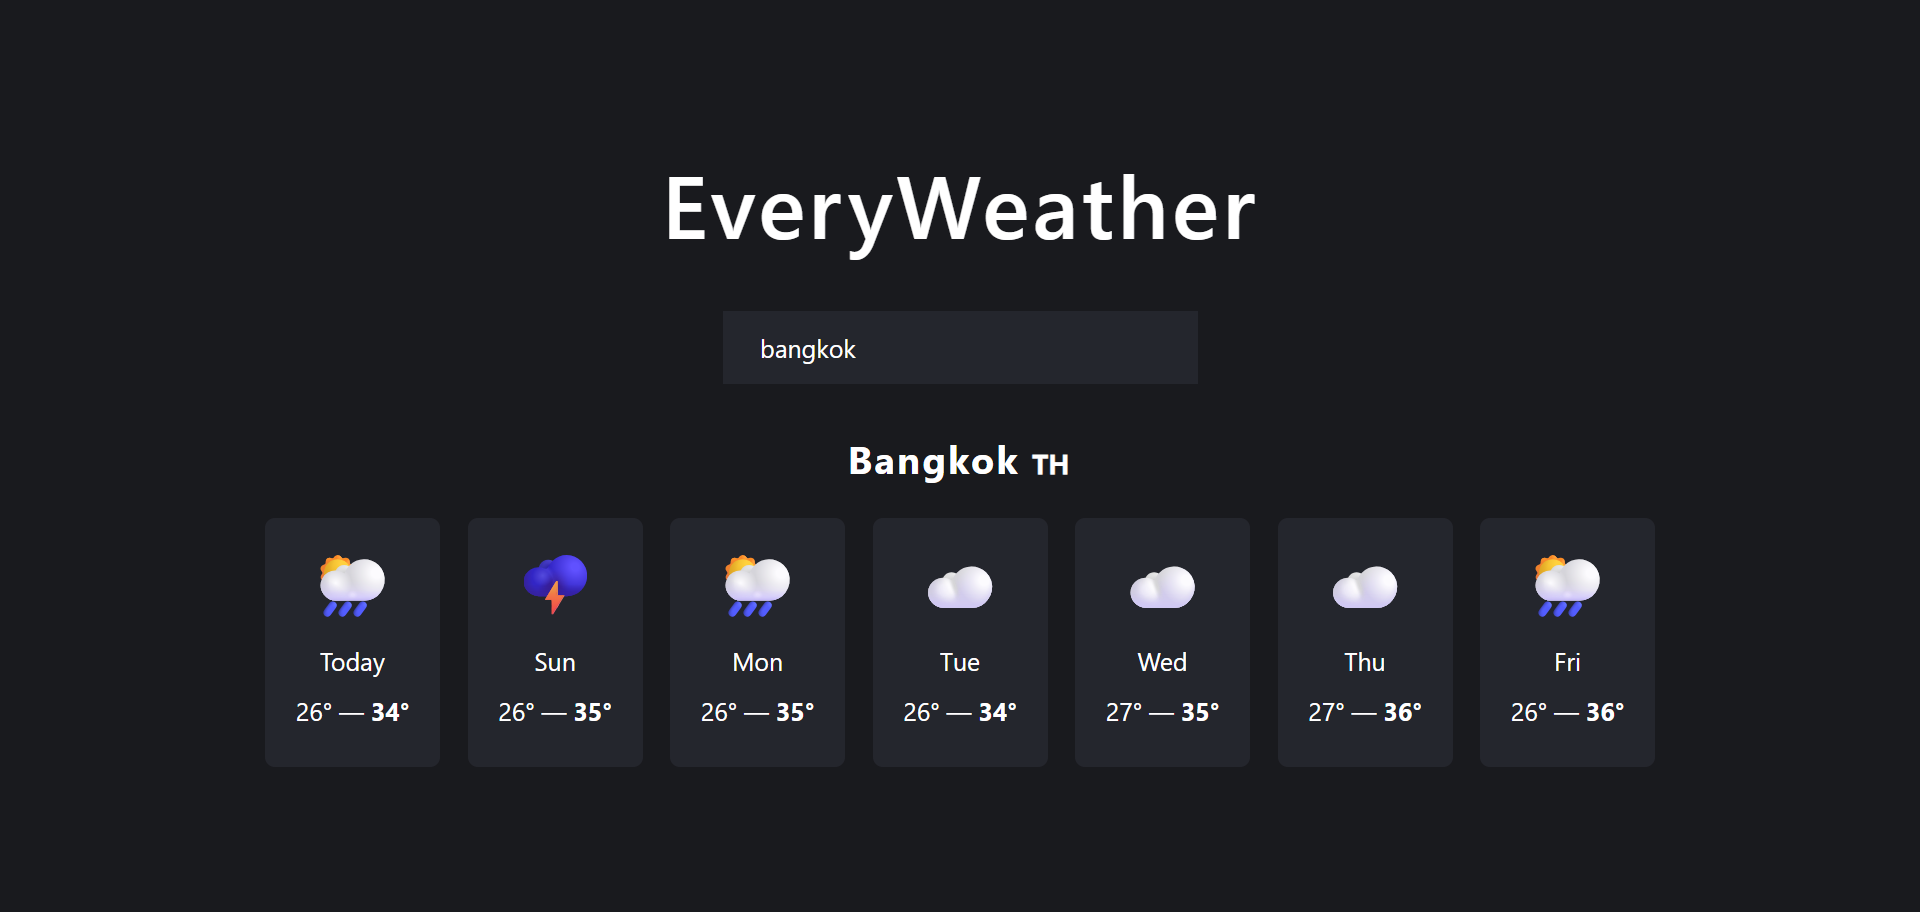
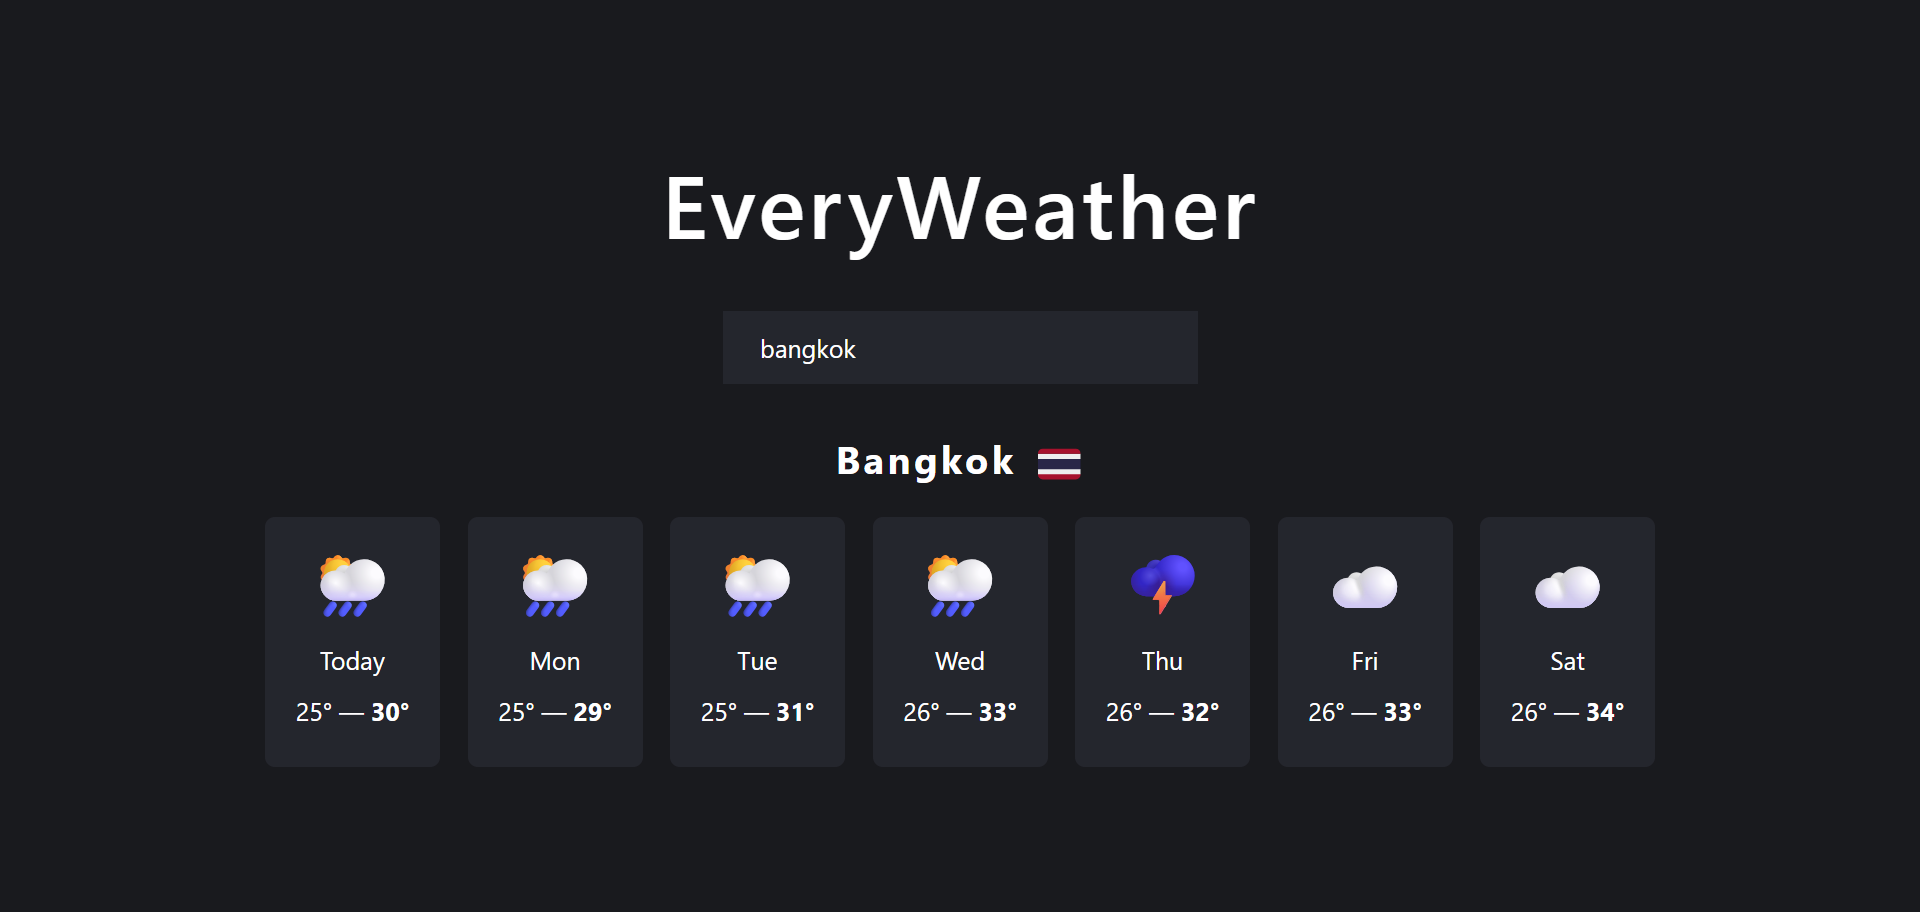
fix: windows does not support emoji flags

diff --git a/src/App.jsx b/src/App.jsx
@@ -1,7 +1,11 @@
+import { polyfillCountryFlagEmojis } from "country-flag-emoji-polyfill";
 import { useState, useEffect } from "react";
 import Input from "./components/Input";
 import Weather from "./components/Weather";
 import convertToFlag from "./utils/convertToFlag";
+
+// Fix for country flag emojis
+polyfillCountryFlagEmojis();
 
 export default function App() {
   const [location, setLocation] = useState("");

diff --git a/src/components/Weather.jsx b/src/components/Weather.jsx
@@ -8,9 +8,14 @@ export default function Weather({ weather, location }) {
     weathercode: codes,
   } = weather;
 
+  // Fix for country flag emojis
+  const [cityName, flag] = location.split(" ");
+
   return (
     <div>
-      <h2>{location}</h2>
+      <h2>
+        {cityName} <span>{flag}</span>
+      </h2>
       <ul className="weather">
         {dates.map((date, i) => (
           <Day

diff --git a/src/index.css b/src/index.css
@@ -42,8 +42,15 @@ h1 {
 
 h2 {
   text-align: center;
-  margin-bottom: 2.8rem;
-  letter-spacing: 2px;
+  margin-bottom: 2.2rem;
+  letter-spacing: 3px;
+}
+
+h2 span {
+  font-family: "Twemoji Country Flags";
+  font-size: 3.4rem;
+  margin-left: 0.6rem;
+  vertical-align: middle;
 }
 
 input {

diff --git a/src/utils/convertToFlag.jsx b/src/utils/convertToFlag.jsx
@@ -1,4 +1,3 @@
-// Convert country code to flag emoji (may not work for some browsers)
 export default function convertToFlag(countryCode) {
   const codePoints = countryCode
     .toUpperCase()
